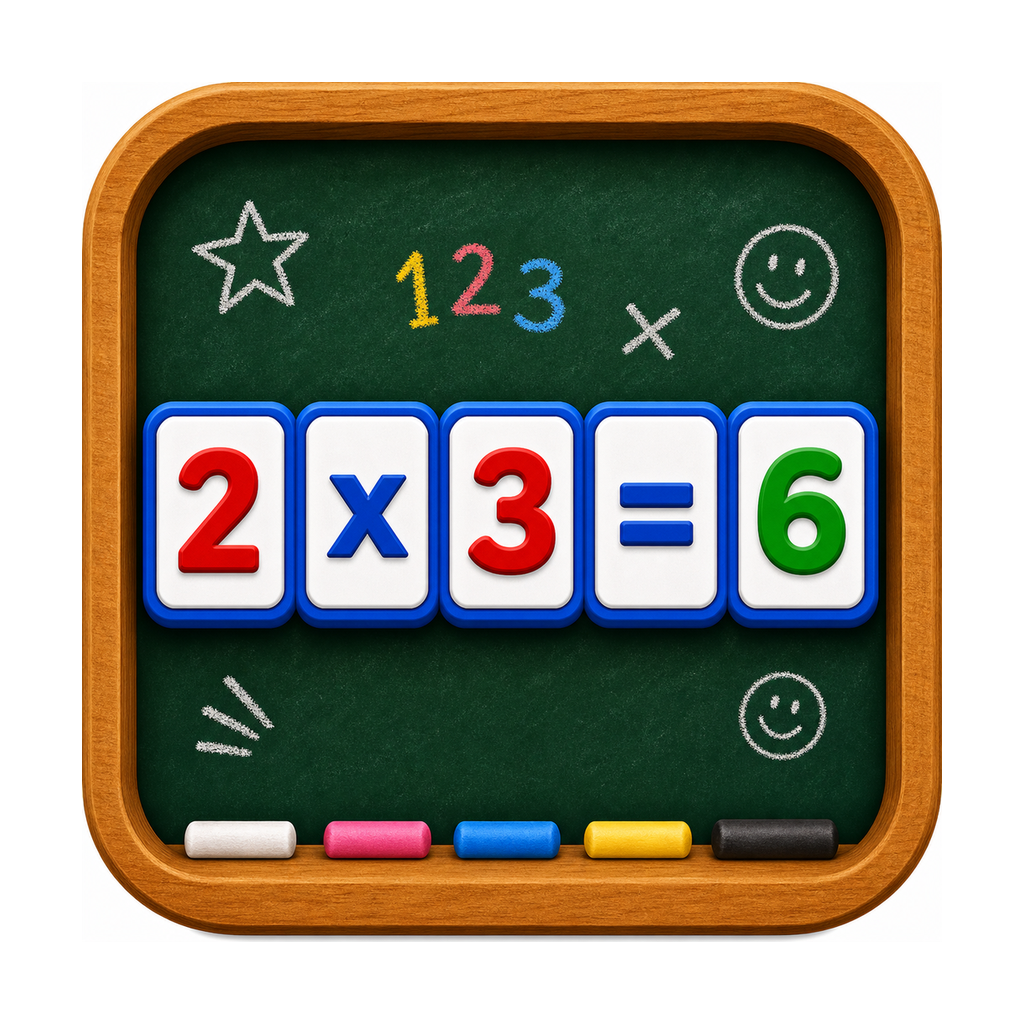
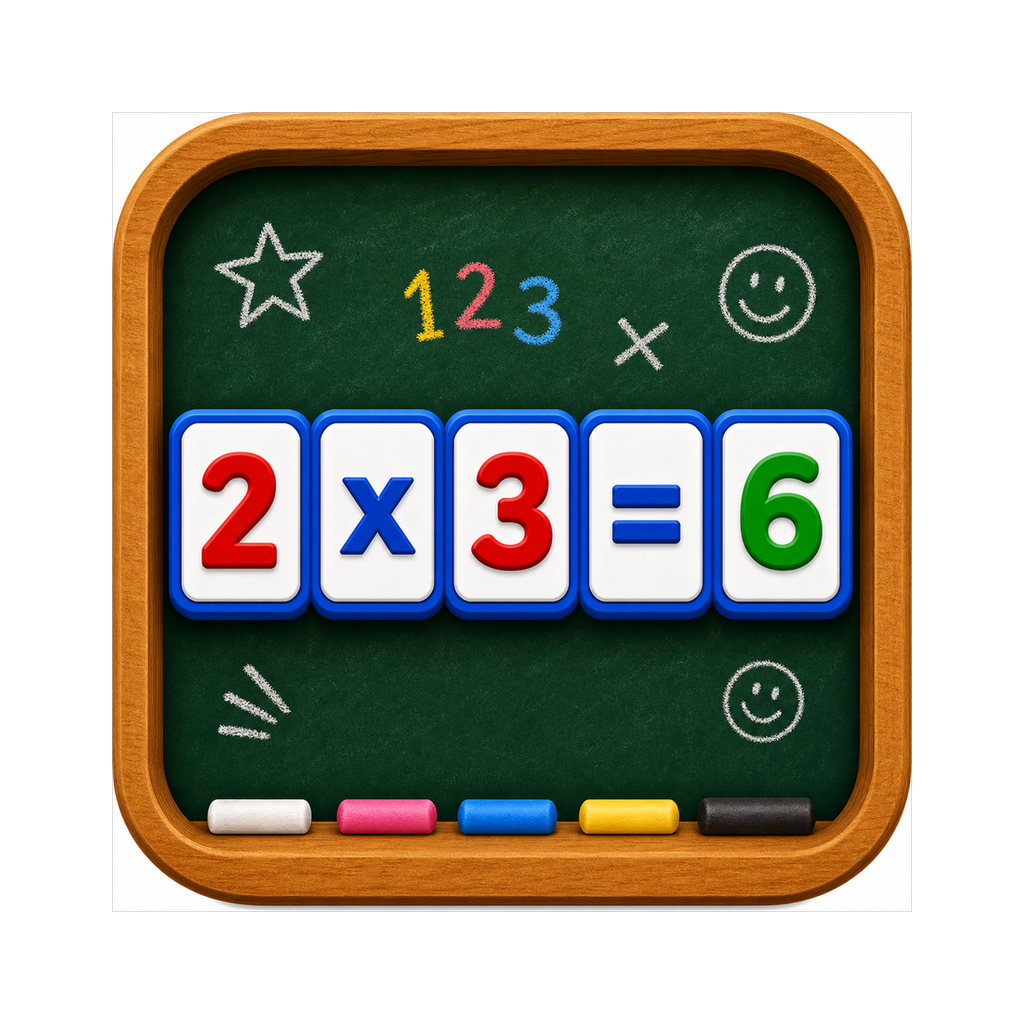
apk icone

diff --git a/config/api.js b/config/api.js
@@ -6,14 +6,19 @@ const extra =
   {}
 
 const API_BASE_URL =
-  extra.API_BASE_URL || 'https://tabuada-omega-nine.vercel.app'
+  extra.API_BASE_URL || 'https://tabuada-theta-nine.vercel.app'
 
 const API_FALLBACK_BASE_URL =
   extra.API_FALLBACK_BASE_URL || 'http://192.168.0.153:3000'
 
-const API_BASE_URLS = Array.from(
-  new Set([API_BASE_URL, API_FALLBACK_BASE_URL].filter(Boolean))
-)
+const ENABLE_LOCAL_FALLBACK =
+  extra.ENABLE_LOCAL_FALLBACK === true ||
+  extra.ENABLE_LOCAL_FALLBACK === 'true' ||
+  Boolean(globalThis && globalThis.__DEV__)
+
+const API_BASE_URLS = ENABLE_LOCAL_FALLBACK
+  ? Array.from(new Set([API_BASE_URL, API_FALLBACK_BASE_URL].filter(Boolean)))
+  : [API_BASE_URL]
 
 export default API_BASE_URL
 export { API_FALLBACK_BASE_URL, API_BASE_URLS }

diff --git a/app.config.js b/app.config.js
@@ -35,9 +35,10 @@ module.exports = ({ config }) => ({
       projectId: 'fe60bdec-dc9f-409a-8806-9d1ca979d5a5',
     },
     API_BASE_URL:
-      process.env.API_BASE_URL || 'https://tabuada-omega-nine.vercel.app',
+      process.env.API_BASE_URL || 'https://tabuada-theta-nine.vercel.app',
     API_FALLBACK_BASE_URL:
       process.env.API_FALLBACK_BASE_URL || 'http://192.168.0.153:3000',
+    ENABLE_LOCAL_FALLBACK: process.env.ENABLE_LOCAL_FALLBACK || 'false',
   },
 })
 //committed by: Rubens Lemos